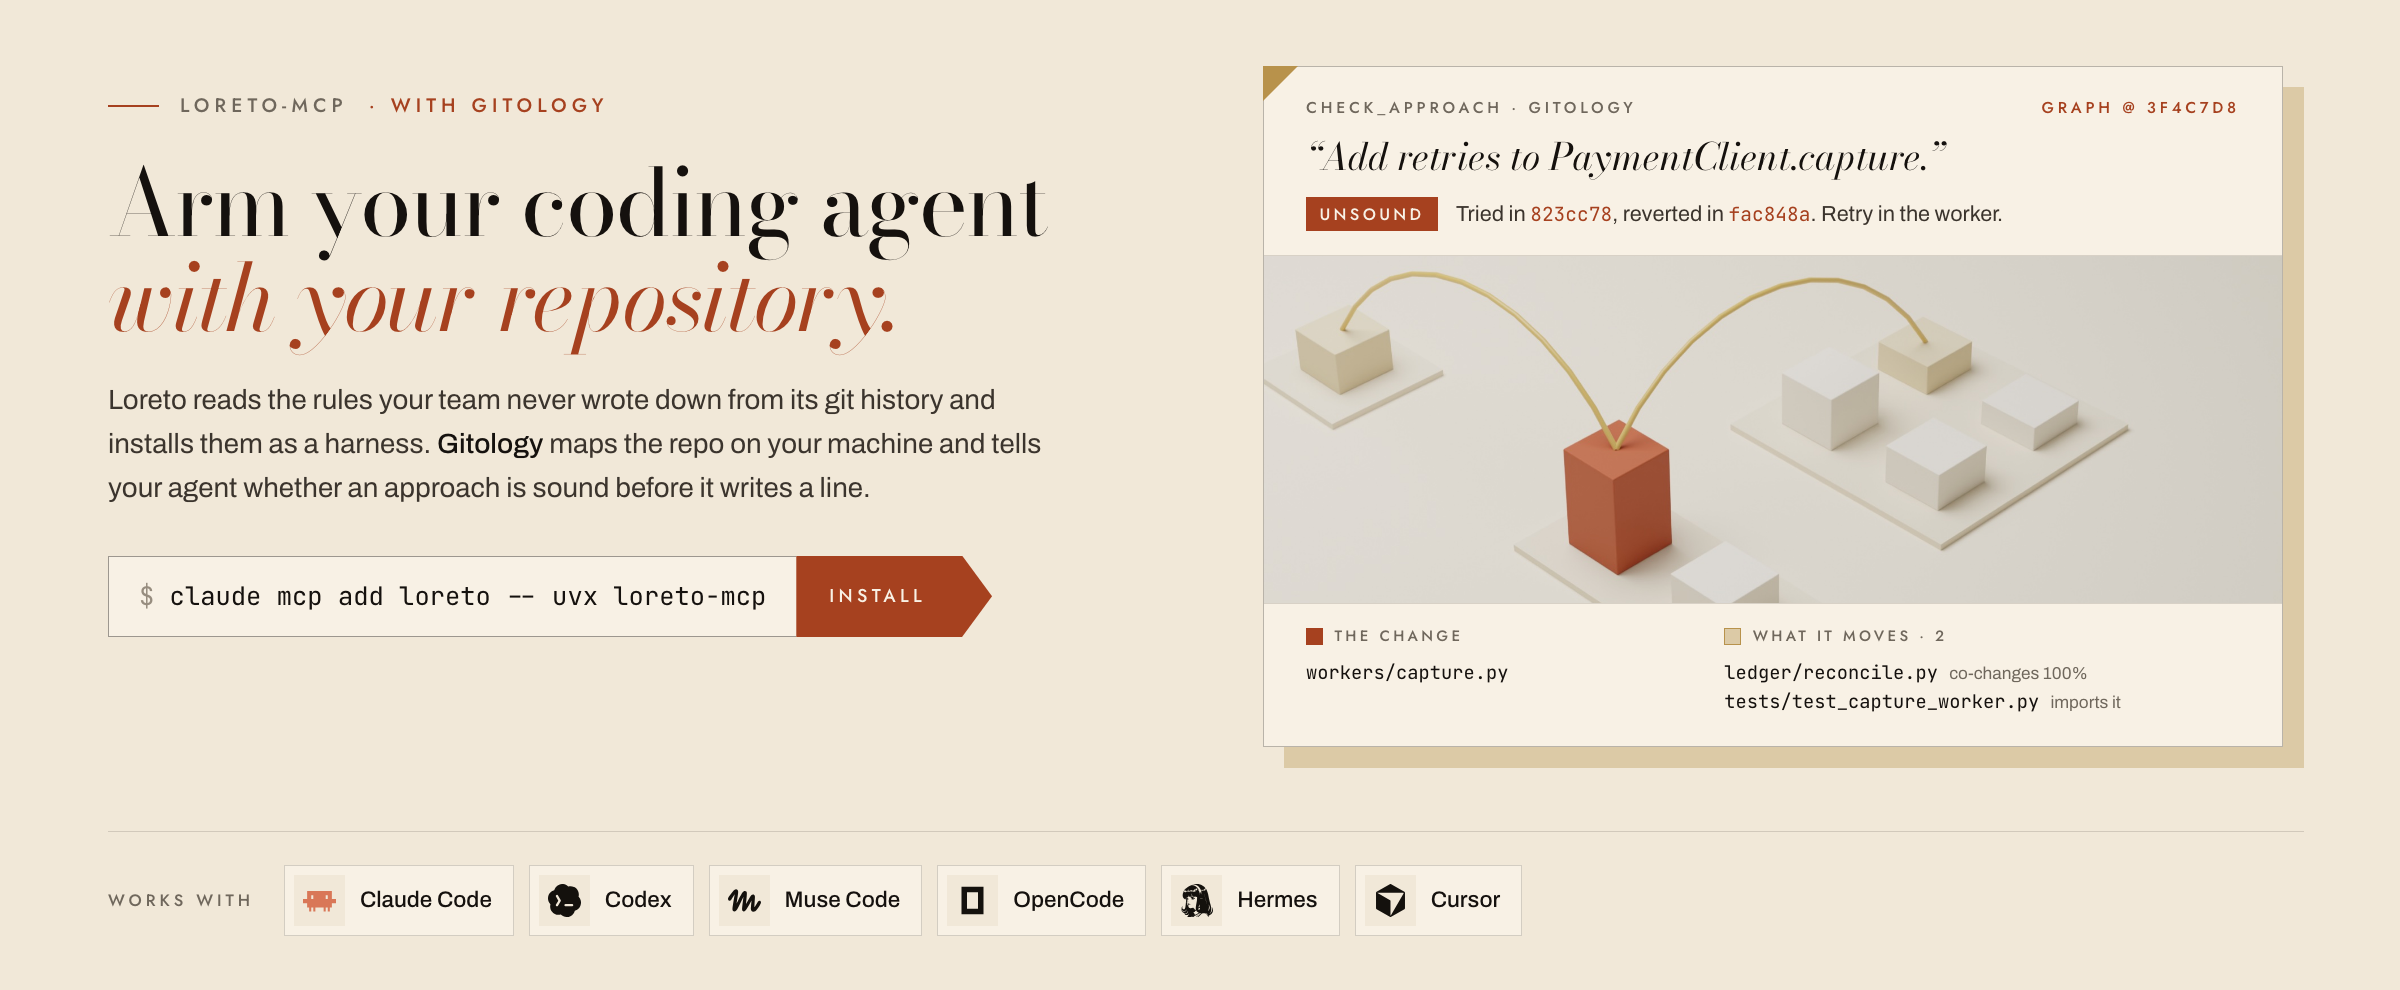
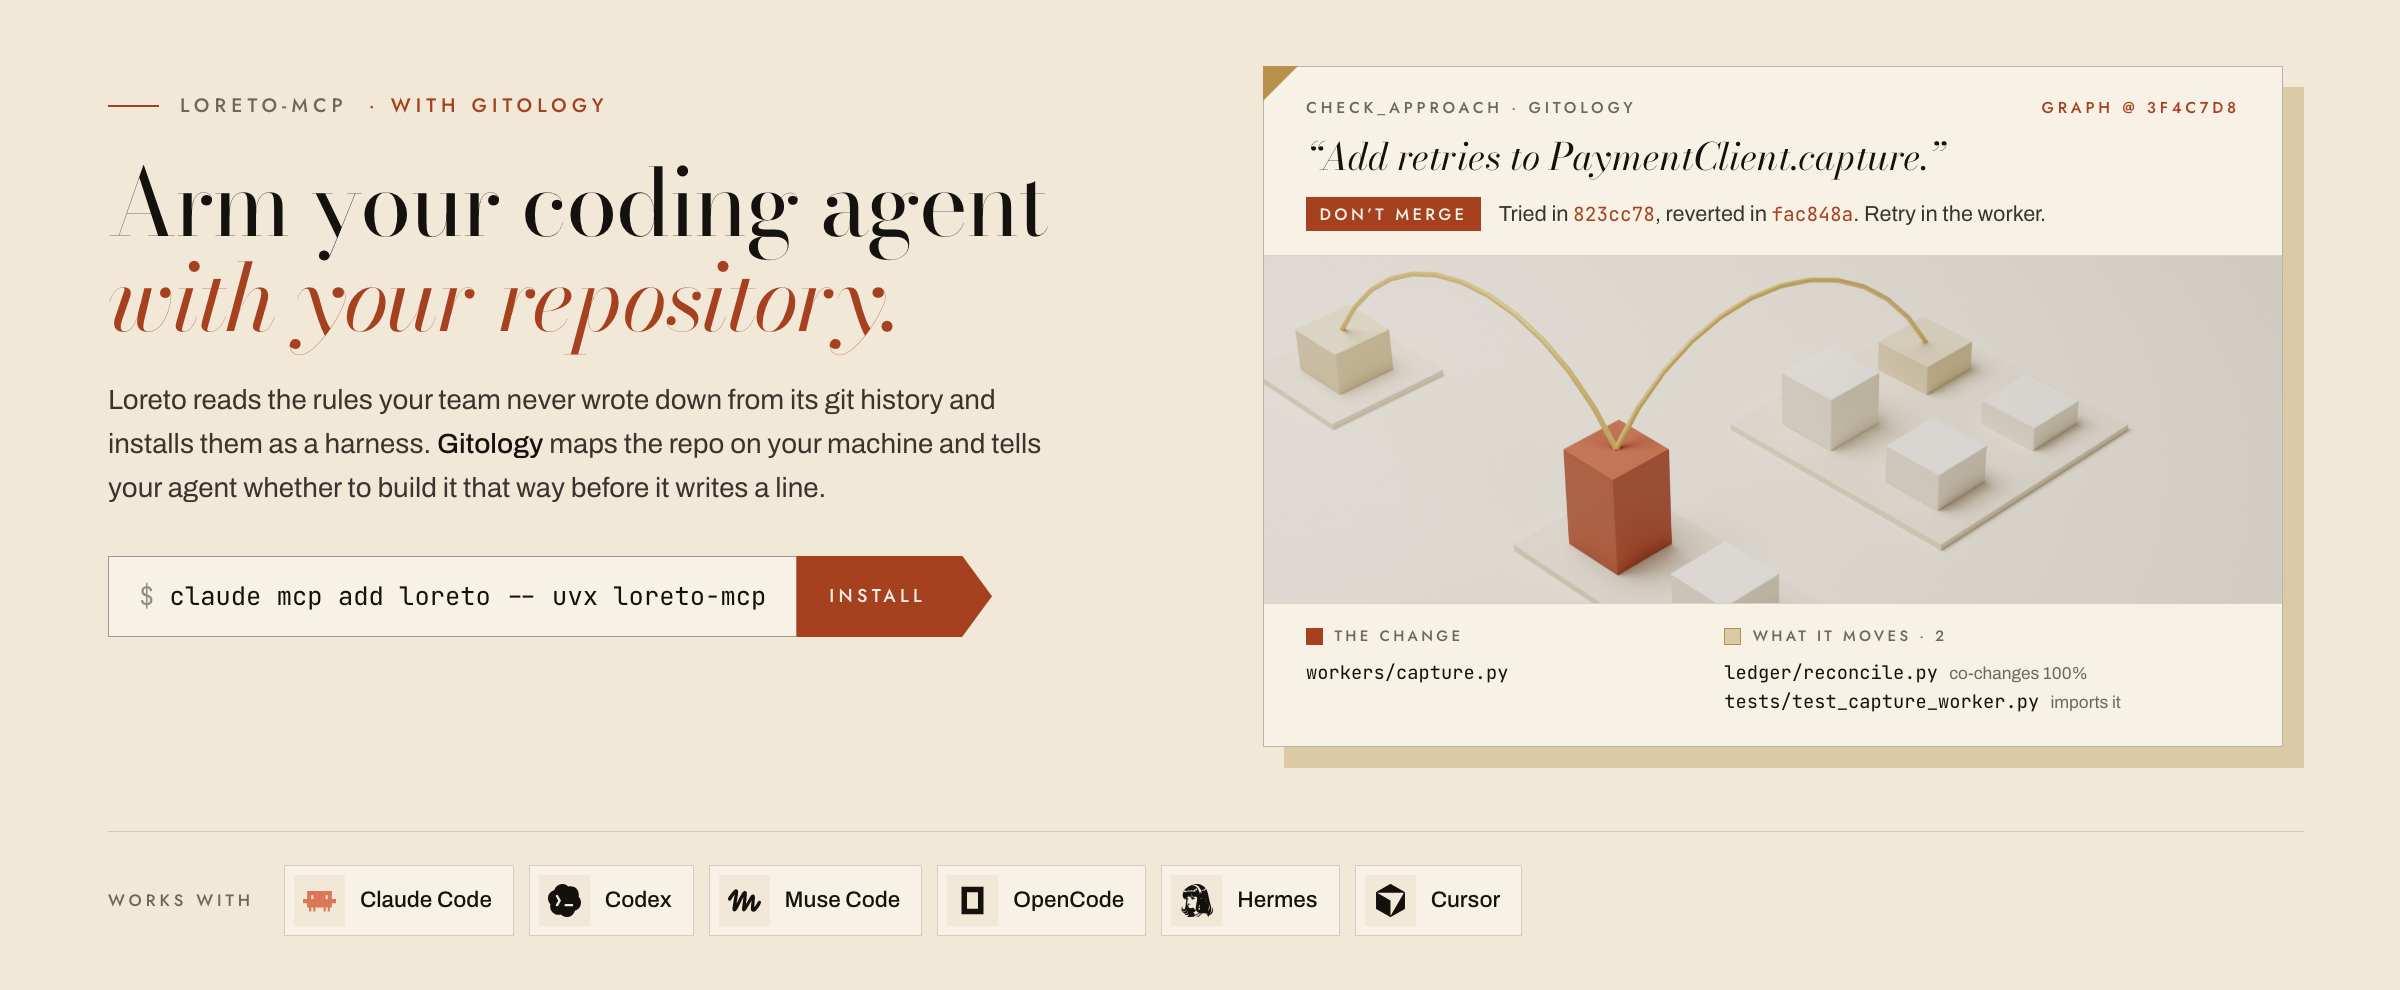
1.1.1: check_approach in plain words (good to go, risky, don't merge, not sure)

Changed region(s): [[0.5625, 0.1818, 0.8438, 0.2424], [0.125, 0.4848, 0.375, 0.5152]]

diff --git a/assets/banner.html b/assets/banner.html
@@ -45,7 +45,7 @@
   <div class="left">
     <div class="eyebrow">loreto-mcp <b>· with Gitology</b></div>
     <h1>Arm your coding agent<em>with your repository.</em></h1>
-    <p class="sub">Loreto reads the rules your team never wrote down from its git history and installs them as a harness. <b>Gitology</b> maps the repo on your machine and tells your agent whether an approach is sound before it writes a line.</p>
+    <p class="sub">Loreto reads the rules your team never wrote down from its git history and installs them as a harness. <b>Gitology</b> maps the repo on your machine and tells your agent whether to build it that way before it writes a line.</p>
     <div class="cmd"><code><span>$ </span>claude mcp add loreto -- uvx loreto-mcp</code><span class="go">Install</span></div>
   </div>
 
@@ -53,7 +53,7 @@
     <div class="head">
       <div class="lab"><span>check_approach · gitology</span><b>graph @ 3f4c7d8</b></div>
       <div class="q">“Add retries to PaymentClient.capture.”</div>
-      <div class="v"><span class="tag">Unsound</span><span>Tried in <code>823cc78</code>, reverted in <code>fac848a</code>. Retry in the worker.</span></div>
+      <div class="v"><span class="tag">Don’t merge</span><span>Tried in <code>823cc78</code>, reverted in <code>fac848a</code>. Retry in the worker.</span></div>
     </div>
     <img class="city" src="blast-city.jpg" alt="">
     <div class="legend">

diff --git a/loreto_mcp/server.py b/loreto_mcp/server.py
@@ -17,7 +17,7 @@ The flow, as tools:
 
 And, on your machine, through Gitology (https://loreto.io/gitology):
 
-    check_approach  is this approach sound here? a verdict with the commits behind it
+    check_approach  should I build it this way here? a verdict with the commits behind it
     plan_change     a change kit: SPEC.md, and STEPS.md small enough for a small model
 
 No API key is needed for a public repository. Set LORETO_API_KEY (from
@@ -448,8 +448,8 @@ def _gitology(args: list[str], path: str, timeout: int = 900) -> tuple[bool, str
 @mcp.tool()
 def check_approach(approach: str, path: str = ".") -> str:
     """
-    Before writing code for a non-trivial change, ask whether the approach is sound for THIS
-    repository. Returns a verdict (sound, risky, unsound or unclear), the evidence behind it
+    Before writing code for a non-trivial change, ask whether it should be built this way in THIS
+    repository. Returns a verdict (good to go, risky, don't merge or not sure), the evidence behind it
     (commits, reverts, decision records, co-change, tests, owners), what the change would touch,
     and a better route when there is one. Runs Gitology locally; the code stays on this machine.
 

diff --git a/loreto_mcp/__init__.py b/loreto_mcp/__init__.py
@@ -1,3 +1,3 @@
 """loreto-mcp — arm your coding agent with your repository (https://loreto.io)."""
 
-__version__ = "1.1.0"
+__version__ = "1.1.1"

diff --git a/README.md b/README.md
@@ -6,7 +6,7 @@
 
 **Stop re-explaining your codebase.** Every codebase keeps rules no one wrote down: where code goes, how big a change is, what has to change together, what was reverted and why. Loreto reads them from your git history and installs them as a harness your coding agent loads, so every pull request it opens reads like your team wrote it.
 
-Then, before your agent writes a line, **[Gitology](https://loreto.io/gitology)** tells it whether the approach is sound for this repository, with the commits to prove it.
+Then, before your agent writes a line, **[Gitology](https://loreto.io/gitology)** tells it whether to build it that way in this repository, with the commits to prove it.
 
 Works with **Claude Code, Codex, Muse Code, OpenCode, Hermes and Cursor**.
 
@@ -62,7 +62,7 @@ No API key is needed for public repositories. To keep purchases on your Loreto a
 | `buy_harness(read_id, agent, files?)` | $5 / $2 a file | Returns a Stripe checkout link **for the person to pay**. The agent cannot pay. |
 | `get_harness(path)` | — | After payment: waits for the files and installs them into the repository at `path`. |
 | `ask_repo(question)` | included | Why was this reverted? Who knows this code? Answered from the history. |
-| `check_approach(approach, path?)` | free, local | Is this approach sound here? A verdict, the evidence and a better route. Runs [Gitology](#gitology-ask-before-you-build). |
+| `check_approach(approach, path?)` | free, local | Should I build it this way here? Good to go, risky or don't merge, with the evidence and a better route. Runs [Gitology](#gitology-ask-before-you-build). |
 | `plan_change(request, path?)` | free, local | A change kit: `SPEC.md`, and `STEPS.md` small enough for a small model to build. Runs Gitology. |
 
 A typical session:
@@ -81,7 +81,7 @@ A typical session:
 
 > **You:** add retries to PaymentClient.capture
 >
-> **Agent:** *(check_approach)* **UNSOUND.** This exact change was made in `823cc78`, captured cards twice, and was reverted in `fac848a`; ADR-014 says retries belong in workers. Better route: wrap the call in `CaptureWorker` with `with_backoff`. *(plan_change)* Kit written: 4 steps.
+> **Agent:** *(check_approach)* **DON'T MERGE.** This exact change was made in `823cc78`, captured cards twice, and was reverted in `fac848a`; ADR-014 says retries belong in workers. Better route: wrap the call in `CaptureWorker` with `with_backoff`. *(plan_change)* Kit written: 4 steps.
 
 Install it once (Python 3.9+), and the tools find it:
 
@@ -103,6 +103,10 @@ POST https://api.loreto.io/api/v1/harness/x402/file      {"prepare_id": "...", "
 ```
 
 Public repositories only. A harness that is not ready yet answers 409 and nothing is charged. Full walkthrough with a Python x402 client: [loreto.io/docs#x402](https://loreto.io/docs#x402). This MCP server does not sign payments.
+
+## Changes in 1.1.1
+
+`check_approach` speaks plain words: good to go, risky, don't merge, not sure (from Gitology's new labels).
 
 ## Changes in 1.1
 
